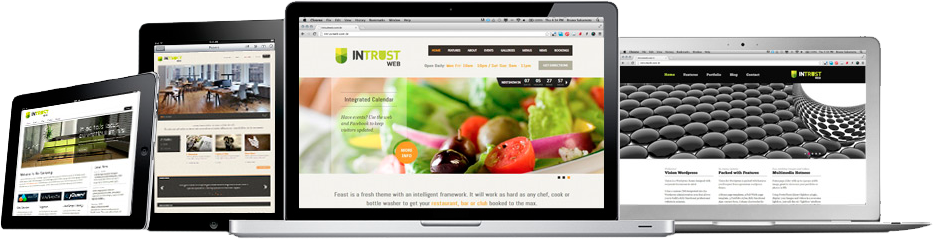
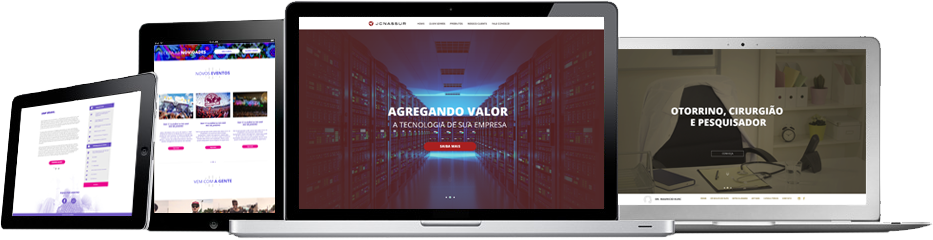
Analytics

diff --git a/src/assets/css/main.css b/src/assets/css/main.css
@@ -1097,11 +1097,7 @@ list-style
   font-size: 14px;
   font-weight: 400;
   border-bottom: 15px solid #d3d1d1;
-}
-@media only screen and (max-width: 767px) {
-  .section-n4-content {
-    text-align: center;
-  }
+  text-align: center;
 }
 .section-n4-content .wrapper-icons {
   font-size: 56px;
@@ -1118,6 +1114,7 @@ list-style
   background-color: #c1d938;
   padding: 70px 15px 150px 15px;
   border-top: 1px solid #5d8531;
+  text-align: center;
 }
 @media only screen and (max-width: 480px) {
   .section-n5 {
@@ -1126,7 +1123,7 @@ list-style
 }
 .section-n5 .img-divisor {
   position: relative;
-  width: 100%;
+  max-width: 100%;
   z-index: 1;
   margin-bottom: -25%;
 }

diff --git a/src/assets/js/main.jquery.js b/src/assets/js/main.jquery.js
@@ -49,17 +49,6 @@ setTimeout(function(){
 		var $objt = $( ".postit-fixed1" )
 		$objt.css( "opacity", "1" );
 	});
-	// Trocar resposta do mailee
-	var $responseMailee = $('#mce-success-response');
-	var $formMailee = $('#mc-embedded-subscribe-form');
-	$formMailee.on("submit", function(event) {
-		setTimeout(function(){
-		if($responseMailee.is(':visible')) {
-		$responseMailee.html("Quase terminado ... Precisamos confirmar o seu endereço de e-mail. Para concluir o processo de inscrição, por favor, confirme em seu e-mail.");
-		}
-		}, 1000);
-	});
-
 }, 500);//SET TIME OUT
 // READY 
 });

diff --git a/footer.php b/footer.php
@@ -8,17 +8,17 @@
     <div class="content">
       <form action="https://formspree.io/contato@madgo.com.br" method="POST">
       <input type="hidden" name="Lugar" value="Intrust WEB" />
-      <input type="hidden" name="_next" value="<?php echo get_template_directory_uri() ?>/obrigado.html" />
-      <input type="hidden" name="_subject" value="Contato - Intrust WEB" />
+      <input type="hidden" name="_next" value="<?php echo get_template_directory_uri() ?>/obrigado2.html" />
+      <input type="hidden" name="_subject" value="Contato Modal - Intrust WEB" />
         <div class="col-xs-12">
           <div class="input-group--default">
             <input required placeholder="NOME" name="Nome" type="text" >
           </div>
           <div class="input-group--default">
-            <input required placeholder="E-MAIL" name="E-mail" type="text" >
+            <input required placeholder="E-MAIL" name="E-mail" type="email" >
           </div>
           <div class="input-group--default">
-            <input required placeholder="TELEFONE" name="Telefone" type="text" >
+            <input required placeholder="TELEFONE" name="Telefone" type="tel" >
           </div>
           <div class="input-group--default">
             <textarea required placeholder="MENSAGEM" name="Mensagem"></textarea>
@@ -50,7 +50,30 @@
 <script type="text/javascript" src="<?php echo get_template_directory_uri() ?>/dist/assets/js/cbpAnimatedHeader.js"></script>
 <script type="text/javascript" src="<?php echo get_template_directory_uri() ?>/dist/assets/js/main.js"></script>
 <script type="text/javascript" src="<?php echo get_template_directory_uri() ?>/dist/assets/js/main.jquery.js"></script>
-<script type='text/javascript' src='http://s3.amazonaws.com/downloads.mailchimp.com/js/mc-validate.js'></script><script type='text/javascript'>(function($) {window.fnames = new Array(); window.ftypes = new Array();fnames[0]='EMAIL';ftypes[0]='email';fnames[1]='FNAME';ftypes[1]='text';fnames[2]='LNAME';ftypes[2]='text';}(jQuery));var $mcj = jQuery.noConflict(true);</script>
+<script type='text/javascript' src='//s3.amazonaws.com/downloads.mailchimp.com/js/mc-validate.js'></script><script type='text/javascript'>(function($) {window.fnames = new Array(); window.ftypes = new Array();fnames[0]='EMAIL';ftypes[0]='email';fnames[1]='FNAME';ftypes[1]='text';fnames[2]='LNAME';ftypes[2]='text'; /**
+ * Translated default messages for the $ validation plugin.
+ * Locale: PT_PT
+ */
+$.extend($.validator.messages, {
+  required: "Campo de preenchimento obrigat&oacute;rio.",
+  remote: "Por favor, corrija este campo.",
+  email: "Por favor, introduza um endere&ccedil;o eletr&oacute;nico v&aacute;lido.",
+  url: "Por favor, introduza um URL v&aacute;lido.",
+  date: "Por favor, introduza uma data v&aacute;lida.",
+  dateISO: "Por favor, introduza uma data v&aacute;lida (ISO).",
+  number: "Por favor, introduza um n&uacute;mero v&aacute;lido.",
+  digits: "Por favor, introduza apenas d&iacute;gitos.",
+  creditcard: "Por favor, introduza um n&uacute;mero de cart&atilde;o de cr&eacute;dito v&aacute;lido.",
+  equalTo: "Por favor, introduza de novo o mesmo valor.",
+  accept: "Por favor, introduza um ficheiro com uma extens&atilde;o v&aacute;lida.",
+  maxlength: $.validator.format("Por favor, n&atilde;o introduza mais do que {0} caracteres."),
+  minlength: $.validator.format("Por favor, introduza pelo menos {0} caracteres."),
+  rangelength: $.validator.format("Por favor, introduza entre {0} e {1} caracteres."),
+  range: $.validator.format("Por favor, introduza um valor entre {0} e {1}."),
+  max: $.validator.format("Por favor, introduza um valor menor ou igual a {0}."),
+  min: $.validator.format("Por favor, introduza um valor maior ou igual a {0}.")
+});}(jQuery));var $mcj = jQuery.noConflict(true);</script>
+<!-- <script type='text/javascript' src='http://s3.amazonaws.com/downloads.mailchimp.com/js/mc-validate.js'></script><script type='text/javascript'>(function($) {window.fnames = new Array(); window.ftypes = new Array();fnames[0]='EMAIL';ftypes[0]='email';fnames[1]='FNAME';ftypes[1]='text';fnames[2]='LNAME';ftypes[2]='text';}(jQuery));var $mcj = jQuery.noConflict(true);</script> -->
   <?php wp_footer(); ?>
 </body>
 </html>

diff --git a/index.php b/index.php
@@ -44,7 +44,7 @@
       </header> <!-- header -->
       <article class="content col-xs-12 col-md-6"> <!-- content -->
         <div class="row">
-          <form action="//madgo.us11.list-manage.com/subscribe/post?u=a87686e44179880f1e95c6c84&amp;id=ee643cbcd8" method="post" id="mc-embedded-subscribe-form" name="mc-embedded-subscribe-form" class="validate" target="_blank" novalidate>
+          <form action="//intrustweb.us13.list-manage.com/subscribe/post?u=a2a672fef6910f5f7276a880f&amp;id=3a32fe030f" method="post" id="mc-embedded-subscribe-form" name="mc-embedded-subscribe-form" class="validate" target="_blank" novalidate>
             <div class="col-xs-12 col-sm-4">
               <div class="input-group">
                 <input placeholder="NOME" name="FNAME" id="mce-FNAME" type="text">
@@ -137,7 +137,7 @@
         <span>Kim</span>
       </div>
       <div class="col-xs-12 text-center">
-        <a target="_blank" href="#" class="href btn btn-custom1">VER SITE  </a>
+        <a target="_blank" href="http://movinvestimentos.com.br/" class="href btn btn-custom1">VER SITE  </a>
       </div>
     </article>
     <article role="tabpanel" class="tab-pane fade" id="tab-pane2">
@@ -148,7 +148,7 @@
         <!-- <span>Kim</span> -->
       </div>
       <div class="col-xs-12 text-center">
-        <a target="_blank" href="#" class="href btn btn-custom1">VER SITE  </a>
+        <a target="_blank" href="http://jcnassur.com.br/" class="href btn btn-custom1">VER SITE  </a>
       </div>
     </article>
     <article role="tabpanel" class="tab-pane fade" id="tab-pane3">
@@ -159,7 +159,7 @@
         <!-- <span>DR MAURICIO KURC</span> -->
       </div>
       <div class="col-xs-12 text-center">
-        <a target="_blank" href="#" class="href btn btn-custom1">VER SITE  </a>
+        <!-- <a target="_blank" href="#" class="href btn btn-custom1">VER SITE  </a> -->
       </div>
     </article>
     <article role="tabpanel" class="tab-pane fade" id="tab-pane4">
@@ -170,7 +170,7 @@
         <!-- <span>Kim</span> -->
       </div>
       <div class="col-xs-12 text-center">
-        <a target="_blank" href="#" class="href btn btn-custom1">VER SITE  </a>
+        <!-- <a target="_blank" href="#" class="href btn btn-custom1">VER SITE  </a> -->
       </div>
     </article>
     <article role="tabpanel" class="tab-pane fade" id="tab-pane5">
@@ -181,7 +181,7 @@
         <!-- <span>Kim</span> -->
       </div>
       <div class="col-xs-12 text-center">
-        <a target="_blank" href="#" class="href btn btn-custom1">VER SITE  </a>
+        <a target="_blank" href="http://bigcase.com.br/" class="href btn btn-custom1">VER SITE  </a>
       </div>
     </article>
     <article role="tabpanel" class="tab-pane fade" id="tab-pane6">
@@ -192,7 +192,7 @@
         <!-- <span>Kim</span> -->
       </div>
       <div class="col-xs-12 text-center">
-        <a target="_blank" href="#" class="href btn btn-custom1">VER SITE  </a>
+        <!-- <a target="_blank" href="#" class="href btn btn-custom1">VER SITE  </a> -->
       </div>
     </article>
   </div><!-- /.tab-content -->
@@ -232,6 +232,8 @@
         <strong>SITE GERENCIÁVEL</strong><br>
         <p>Gerencie você mesmo o seu site de onde você estiver com o módulo gestão.</p>
       </article>
+    </div><!-- row -->
+    <div class="row">
       <article class="col-xs-12 col-sm-4">
         <div class="wrapper-icons"><span class="icons icon-search1"></span></div><br>
         <strong>SEO</strong><br>
@@ -309,7 +311,7 @@
           <form action="https://formspree.io/contato@madgo.com.br" method="POST">
             <input type="hidden" name="Lugar" value="Intrust WEB" />
             <input type="hidden" name="_next" value="<?php echo get_template_directory_uri() ?>/obrigado.html" />
-            <input type="hidden" name="_subject" value="Contato - Intrust WEB" />
+            <input type="hidden" name="_subject" value="Contato Lead - Intrust WEB" />
             <div class="col-xs-12">
               <div class="input-group--default">
                 <input placeholder="Nome completo" required name="Nome" type="text" >

diff --git a/analyticstracking.php b/analyticstracking.php
@@ -1,0 +1,26 @@
+<?php 
+if(is_home()):
+?>
+<script>
+  (function(i,s,o,g,r,a,m){i['GoogleAnalyticsObject']=r;i[r]=i[r]||function(){
+  (i[r].q=i[r].q||[]).push(arguments)},i[r].l=1*new Date();a=s.createElement(o),
+  m=s.getElementsByTagName(o)[0];a.async=1;a.src=g;m.parentNode.insertBefore(a,m)
+  })(window,document,'script','https://www.google-analytics.com/analytics.js','ga');
+  ga('create', 'UA-79747356-1', 'auto');
+  ga('send', 'pageview');
+</script>
+<?php 
+endif;
+if(is_page("blog")):
+?>
+<script>
+  (function(i,s,o,g,r,a,m){i['GoogleAnalyticsObject']=r;i[r]=i[r]||function(){
+  (i[r].q=i[r].q||[]).push(arguments)},i[r].l=1*new Date();a=s.createElement(o),
+  m=s.getElementsByTagName(o)[0];a.async=1;a.src=g;m.parentNode.insertBefore(a,m)
+  })(window,document,'script','https://www.google-analytics.com/analytics.js','ga');
+  ga('create', 'UA-79747356-2', 'auto');
+  ga('send', 'pageview');
+</script>
+<?php 
+endif;
+?>

diff --git a/sidebar.php b/sidebar.php
@@ -2,7 +2,7 @@
 	<div class="sidebar newsletter">
 		<header><h1>NEWSLETTER</h1></header>
 		<span>Assine nossa newsletter</span>
-		<form action="//madgo.us11.list-manage.com/subscribe/post?u=a87686e44179880f1e95c6c84&amp;id=ee643cbcd8" method="post" id="mc-embedded-subscribe-form" name="mc-embedded-subscribe-form" class="validate" target="_blank" novalidate>
+		<form action="//intrustweb.us13.list-manage.com/subscribe/post?u=a2a672fef6910f5f7276a880f&amp;id=3a32fe030f" method="post" id="mc-embedded-subscribe-form" name="mc-embedded-subscribe-form" class="validate" target="_blank" novalidate>
 			<div class="input-group">
 				<input type="text" placeholder="Seu nome" name="FNAME" id="mce-FNAME">
 			</div>

diff --git a/header.php b/header.php
@@ -28,7 +28,8 @@ Conteúdo para Blog,Social Mídia,SEO" />
       <script src="https://oss.maxcdn.com/html5shiv/3.7.2/html5shiv.min.js"></script>
       <script src="https://oss.maxcdn.com/respond/1.4.2/respond.min.js"></script>
     <![endif]-->
-    <?php wp_head(); ?>
+  <?php get_template_part('analyticstracking'); ?>
+  <?php wp_head(); ?>
 </head>
 <body data-spy="scroll" data-target="#menu-wrapper" data-offset="64">
 <header id="top">
